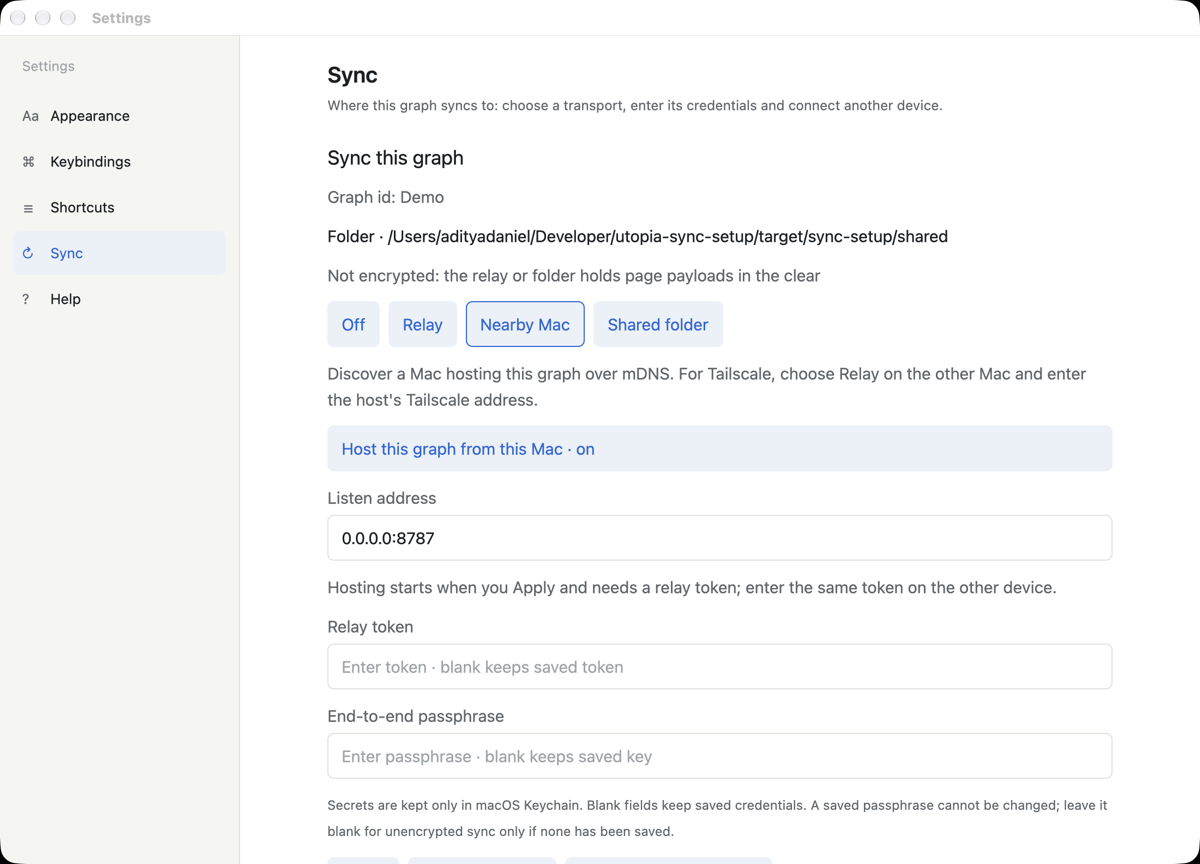
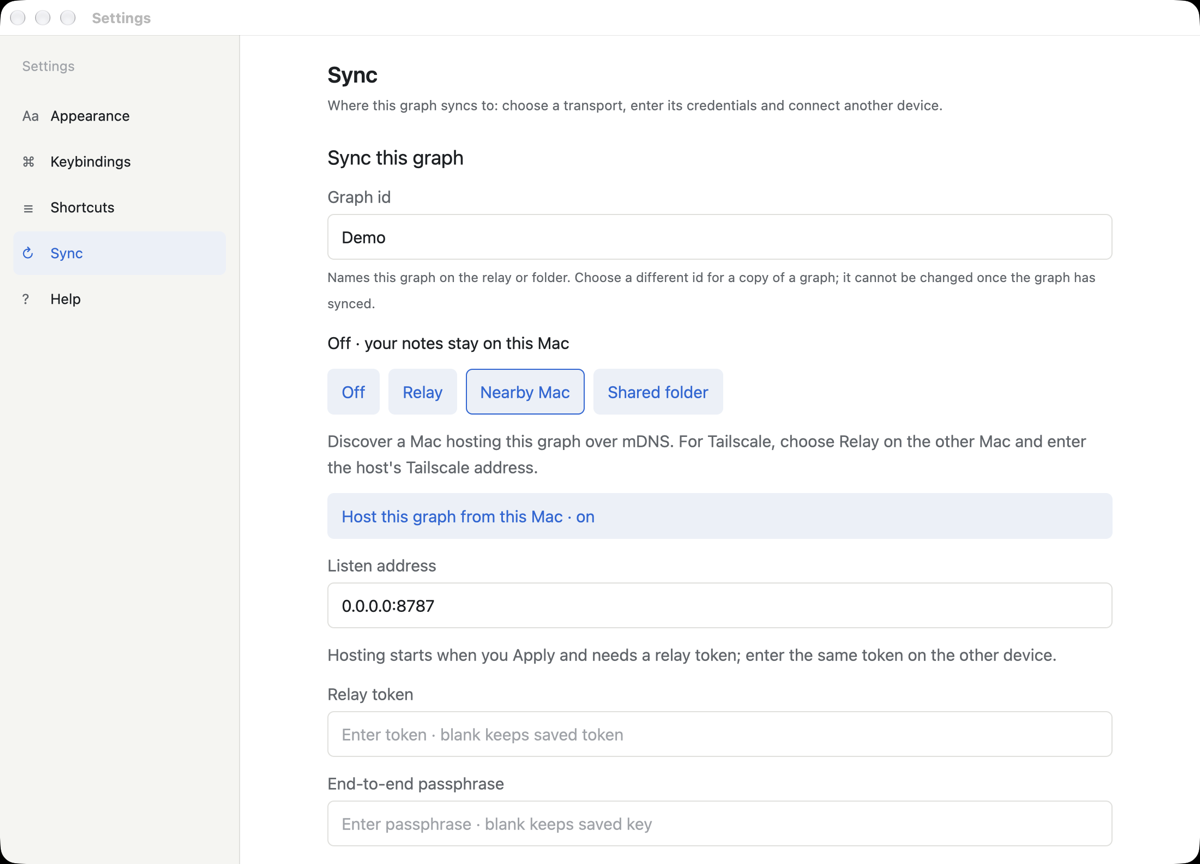
Choose the graph id until the graph first syncs

Changed region(s): [[0.2775, 0.5, 0.925, 0.9688], [0.2775, 0.3125, 0.925, 0.4688], [0.2775, 0.2188, 0.8017, 0.2812]]

diff --git a/crates/utopia-app/src/sync_setup.rs b/crates/utopia-app/src/sync_setup.rs
@@ -82,18 +82,14 @@ impl Coordinator {
         cx: &mut App,
     ) -> Entity<Self> {
         let default_graph = crate::paths::graph_id(graph_path);
-        let graph = env.graph.clone().unwrap_or_else(|| {
-            ws.read(cx).app().clone().update(cx, |app, _| {
-                app.store
-                    .sync_get("setup_graph")
-                    .ok()
-                    .flatten()
-                    .unwrap_or_else(|| {
-                        let _ = app.store.sync_set("setup_graph", &default_graph);
-                        default_graph
-                    })
-            })
+        // Opening a graph does not freeze its id: a copy of the file is a new notebook and
+        // may pick its own before it first syncs (§12.7). Only a successful Apply writes it.
+        let stored = ws.read(cx).app().clone().update(cx, |app, _| {
+            app.store.sync_get("setup_graph").ok().flatten()
         });
+        // An environment variable owns this run, so its id is not the user's to edit here.
+        let graph_editable = env.graph.is_none() && stored.is_none();
+        let graph = env.graph.clone().or(stored).unwrap_or(default_graph);
         let canonical = graph_path
             .canonicalize()
             .unwrap_or_else(|_| graph_path.to_path_buf());
@@ -103,7 +99,7 @@ impl Coordinator {
             ..Default::default()
         });
         let file = config.join("sync").join(format!("{id}.json"));
-        let view = cx.new(|cx| SyncSetup::new(graph.clone(), cx));
+        let view = cx.new(|cx| SyncSetup::new(graph.clone(), graph_editable, cx));
         cx.set_global(SetupHandle(view.clone()));
         cx.new(|cx| {
             let sub = cx.subscribe(&view, |this: &mut Self, _, request: &Request, cx| {
@@ -140,6 +136,7 @@ impl Coordinator {
                 });
                 this.run(
                     Request {
+                        graph: this.graph.clone(),
                         preferences,
                         token: String::new(),
                         passphrase: String::new(),
@@ -177,7 +174,7 @@ impl Coordinator {
             .sync_get("setup_e2e_check")
             .ok()
             .flatten();
-        let graph = self.graph.clone();
+        let graph = request.graph.clone();
         let file = self.file.clone();
         let secrets = self.secrets.clone();
         let env = self.env.clone();
@@ -305,8 +302,11 @@ impl Coordinator {
                         // queued: a round still in flight must not push the republished rows
                         // to the target being replaced.
                         let old = if test_only { None } else { this.ws.update(cx, |ws, cx| ws.stop_sync(cx)) };
+                        let graph = prepared.cfg.graph.clone();
                         let ready = this.ws.read(cx).app().clone().update(cx, |app, _| {
                             if let Some(marker) = &prepared.key_check { app.store.sync_set("setup_e2e_check", marker)?; }
+                            // From here on the id names data: it is frozen into the graph.
+                            app.store.sync_set("setup_graph", &graph)?;
                             app.store.prepare_sync_destination(&prepared.destination)
                         });
                         if ready.is_err() {
@@ -330,7 +330,9 @@ impl Coordinator {
                             return (old, false);
                         }
                         this.lan = prepared.lan;
+                        this.graph = graph.clone();
                         this.view.update(cx, |view, cx| {
+                            view.freeze_graph(graph, cx);
                             view.preferences = prefs.clone();
                             if save { view.notice = None; }
                             view.finish(message, cx);
@@ -497,6 +499,7 @@ mod tests {
     }
 
     struct Harness {
+        app: Entity<AppState>,
         ws: Entity<Workspace>,
         setup: Entity<SyncSetup>,
         /// Held, as the app's `Ready` holds it: an entity nobody owns is released and its
@@ -528,7 +531,7 @@ mod tests {
         });
         let store = Store::open_in_memory().unwrap();
         let app = cx.new(|_| AppState::new(store));
-        let (ws, cx) = cx.add_window_view(|window, cx| Workspace::new(app, window, cx));
+        let (ws, cx) = cx.add_window_view(|window, cx| Workspace::new(app.clone(), window, cx));
         let secrets: Arc<dyn Secrets> = Arc::new(MemorySecrets::default());
         let coordinator = cx.update(|_, cx| {
             Coordinator::install_with(
@@ -543,6 +546,7 @@ mod tests {
         });
         let setup = coordinator.read_with(cx, |coordinator, _| coordinator.view.clone());
         Harness {
+            app,
             ws,
             setup,
             _coordinator: coordinator,
@@ -612,6 +616,47 @@ mod tests {
             panic!("resolving an environment override must not write credentials")
         }
     }
+    /// §12.7: the graph id names the graph on the relay. Opening a graph must not freeze it:
+    /// a copy of `Notes.utopia` used as a second notebook would otherwise publish into the
+    /// first one's relay graph and merge both. The first Apply records the id and freezes it.
+    #[gpui::test]
+    fn ac_12_7_an_unsynced_graph_id_stays_editable(cx: &mut TestAppContext) {
+        let dir = tempfile::tempdir().unwrap();
+        let shared = dir.path().join("shared");
+        std::fs::create_dir_all(&shared).unwrap();
+        let h = harness(cx, dir.path(), None, lan_discovery());
+        cx.run_until_parked();
+        assert!(
+            h.app
+                .read_with(cx, |app, _| app.store.sync_get("setup_graph").unwrap())
+                .is_none(),
+            "opening a graph wrote its id into the file"
+        );
+        assert!(h.setup.read_with(cx, |view, _| view.graph_editable));
+        h.setup.update(cx, |view, cx| {
+            view.graph_input
+                .update(cx, |input, cx| input.fill("notes-second", cx));
+            view.choose(Mode::Folder, cx);
+            view.folder.update(cx, |input, cx| {
+                input.fill(&shared.display().to_string(), cx)
+            });
+            view.request(false, cx);
+        });
+        cx.run_until_parked();
+        assert_eq!(
+            h.app
+                .read_with(cx, |app, _| app.store.sync_get("setup_graph").unwrap())
+                .as_deref(),
+            Some("notes-second"),
+            "the chosen id is the one the graph syncs under"
+        );
+        assert!(
+            !h.setup.read_with(cx, |view, _| view.graph_editable),
+            "the id is frozen once it names synced data"
+        );
+        assert!(h.ws.read_with(cx, |ws, _| ws.sync_phase().is_some()));
+    }
+
     /// §12.7: a Nearby Mac can be asleep when the laptop starts. Discovery is retried on the
     /// runner's slow cadence instead of leaving sync off until someone opens Settings again.
     #[gpui::test]
@@ -650,7 +695,11 @@ mod tests {
         // The host appears; a minute later the app looks again by itself.
         cx.background_executor.advance_clock(DISCOVERY_RETRY);
         cx.run_until_parked();
-        assert_eq!(*looks.lock().unwrap(), 2, "one retry after the slow cadence");
+        assert_eq!(
+            *looks.lock().unwrap(),
+            2,
+            "one retry after the slow cadence"
+        );
         assert!(
             h.ws.read_with(cx, |ws, _| ws.sync_phase().is_some()),
             "the client never looked again: {}",
@@ -660,6 +709,7 @@ mod tests {
 
     fn request() -> Request {
         Request {
+            graph: "g".into(),
             preferences: Preferences::default(),
             token: String::new(),
             passphrase: String::new(),

diff --git a/crates/utopia-ui/src/sync_setup.rs b/crates/utopia-ui/src/sync_setup.rs
@@ -8,6 +8,9 @@ impl Global for SetupHandle {}
 
 #[derive(Clone)]
 pub struct Request {
+    /// The graph id this apply publishes under (§12.7): editable until the graph first
+    /// syncs, frozen afterwards.
+    pub graph: String,
     pub preferences: Preferences,
     pub token: String,
     pub passphrase: String,
@@ -16,6 +19,11 @@ pub struct Request {
 
 pub struct SyncSetup {
     pub graph: String,
+    /// The id can still be chosen: the graph has never synced, so no relay path or E2E key
+    /// depends on it yet. A copy of a graph used as a second notebook picks its own id here
+    /// instead of publishing into the first one's relay graph (§12.6, §12.7).
+    pub graph_editable: bool,
+    pub graph_input: Entity<LineInput>,
     pub preferences: Preferences,
     pub overrides: Vec<&'static str>,
     pub notice: Option<String>,
@@ -31,7 +39,12 @@ pub struct SyncSetup {
 }
 impl EventEmitter<Request> for SyncSetup {}
 impl SyncSetup {
-    pub fn new(graph: String, cx: &mut Context<Self>) -> Self {
+    pub fn new(graph: String, graph_editable: bool, cx: &mut Context<Self>) -> Self {
+        let graph_input = cx.new(|cx| {
+            let mut input = LineInput::new("Graph id", cx);
+            input.fill(&graph, cx);
+            input
+        });
         let url = cx.new(|cx| LineInput::new("https://relay.example.com", cx));
         let folder = cx.new(|cx| LineInput::new("Choose a shared folder", cx));
         let bind = cx.new(|cx| {
@@ -51,6 +64,8 @@ impl SyncSetup {
         });
         Self {
             graph,
+            graph_editable,
+            graph_input,
             preferences: Preferences::default(),
             overrides: vec![],
             notice: None,
@@ -91,6 +106,15 @@ impl SyncSetup {
         self.notice = notice;
         cx.notify();
     }
+    /// The id is in use from now on: the relay path and the E2E key both derive from it, so
+    /// a later change would publish this graph into another one (§12.6).
+    pub fn freeze_graph(&mut self, graph: String, cx: &mut Context<Self>) {
+        self.graph_input
+            .update(cx, |input, cx| input.fill(&graph, cx));
+        self.graph = graph;
+        self.graph_editable = false;
+        cx.notify();
+    }
     pub fn choose(&mut self, mode: Mode, cx: &mut Context<Self>) {
         if self.busy {
             return;
@@ -100,6 +124,16 @@ impl SyncSetup {
     }
     pub fn request(&mut self, test_only: bool, cx: &mut Context<Self>) {
         if self.busy || (!test_only && !self.overrides.is_empty()) {
+            return;
+        }
+        let graph = if self.graph_editable {
+            self.graph_input.read(cx).text().trim().to_string()
+        } else {
+            self.graph.clone()
+        };
+        if !utopia_sync::http::valid_graph_id(&graph) {
+            self.status = "Enter a graph id: letters, digits, hyphens and underscores only.".into();
+            cx.notify();
             return;
         }
         let mut preferences = self.preferences.clone();
@@ -130,6 +164,7 @@ impl SyncSetup {
             return;
         }
         let request = Request {
+            graph,
             preferences,
             token: self.token.read(cx).text().to_string(),
             passphrase: self.passphrase.read(cx).text().to_string(),
@@ -234,11 +269,23 @@ impl Render for SyncSetup {
             .flex_col()
             .gap_3()
             .child(div().text_size(px(18.)).child("Sync this graph"))
-            .child(
+            .child(if self.graph_editable {
+                div()
+                    .flex()
+                    .flex_col()
+                    .gap_1()
+                    .child(field("Graph id", "sync-graph", self.graph_input.clone(), cx))
+                    .child(
+                        div()
+                            .text_size(px(12.))
+                            .text_color(th.muted)
+                            .child("Names this graph on the relay or folder. Choose a different id for a copy of a graph; it cannot be changed once the graph has synced."),
+                    )
+            } else {
                 div()
                     .text_color(th.muted)
-                    .child(format!("Graph id: {}", self.graph)),
-            )
+                    .child(format!("Graph id: {}", self.graph))
+            })
             .child(
                 div()
                     .debug_selector(|| "settings-sync-transport".into())

diff --git a/crates/utopia-ui/tests/settings.rs b/crates/utopia-ui/tests/settings.rs
@@ -1653,7 +1653,7 @@ fn ac_12_7_sync_setup_selects_transports_and_opens_pairing(cx: &mut TestAppConte
         install_keymap(cx, None);
     });
     let (view, cx) = cx.add_window_view(|_, cx| {
-        let mut v = SyncSetup::new("Demo".into(), cx);
+        let mut v = SyncSetup::new("Demo".into(), false, cx);
         v.loaded(Preferences::default(), vec![], None, cx);
         v.finish("Ready".into(), cx);
         v
@@ -1685,7 +1685,7 @@ fn ac_12_5_sync_setup_blocks_apply_during_an_environment_override(cx: &mut TestA
     use gpui::AppContext;
     use utopia_sync::setup::Preferences;
     use utopia_ui::sync_setup::SyncSetup;
-    let view = cx.new(|cx| SyncSetup::new("Demo".into(), cx));
+    let view = cx.new(|cx| SyncSetup::new("Demo".into(), false, cx));
     view.update(cx, |view, cx| {
         view.loaded(Preferences::default(), vec!["UTOPIA_SYNC_URL"], None, cx);
         view.finish("Ready".into(), cx);

diff --git a/PRD.md b/PRD.md
@@ -875,6 +875,7 @@ GET  /v1/graphs/{gid}/pages/{pid}/updates?since={frontier}
 - Collapse state, sidebar width, scroll position, caret, selection → **local-only** (avoids sync churn and surprise jumps).
 - Search index → rebuilt locally.
 - Window/UI preferences → local-only, except a small `graph_settings` shard (date format, export defaults).
+- The **sync graph id** (the relay path and part of the E2E AAD) is chosen when the graph first syncs and frozen from then on. A copy of a graph file can pick its own id before that, so duplicating `Notes.utopia` starts a second notebook instead of publishing into the original's relay graph.
 
 ### 12.6 Failure handling
 
